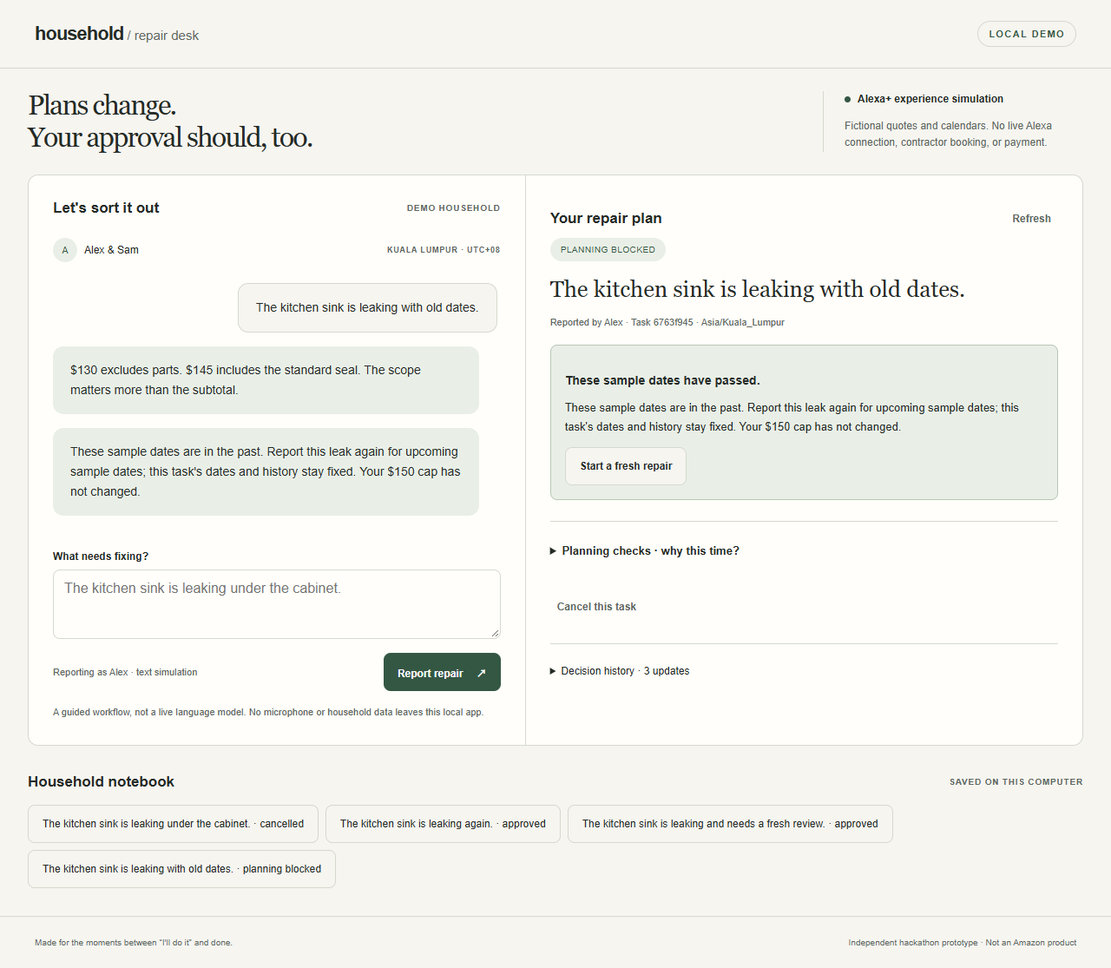
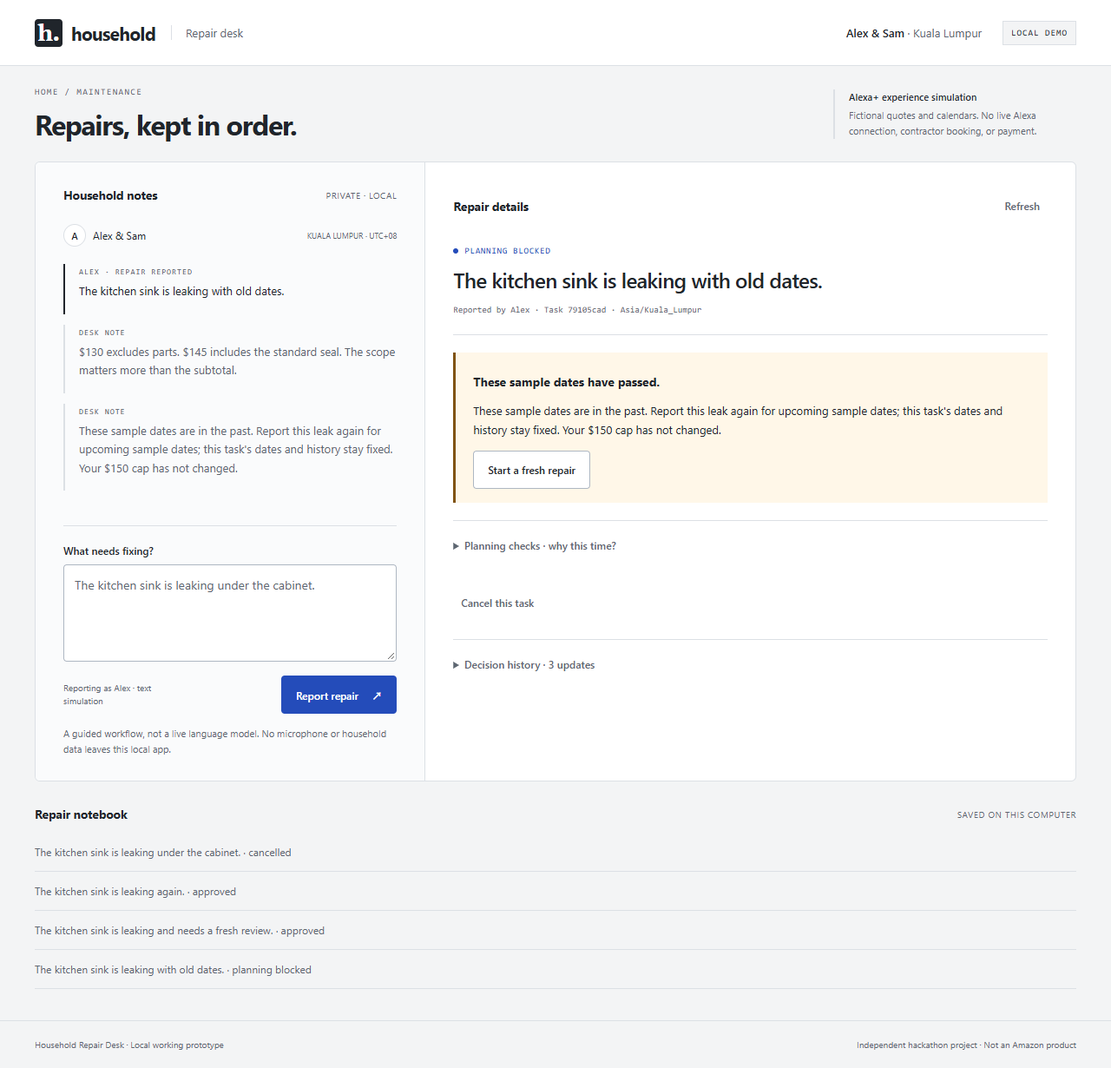
Refine repair workspace and record matching UI demo

diff --git a/public/style.css b/public/style.css
@@ -1,7 +1,6 @@
-:root{color-scheme:light;--bg:#f6f5f0;--surface:#fffefa;--ink:#252b27;--muted:#61685f;--line:#d6d9ce;--accent:#345744;--accent-soft:#e9efe7;--error:#9c312c;--radius:12px;--space:8px;font-family:Arial,Helvetica,sans-serif;color:var(--ink);background:var(--bg)}*{box-sizing:border-box}body{margin:0}header,footer{max-width:1360px;margin:auto;padding:24px 40px;display:flex;justify-content:space-between;align-items:center;gap:24px}header{border-bottom:1px solid var(--line)}a{color:inherit}.wordmark{text-decoration:none;font-size:22px;font-weight:700;letter-spacing:-1px}.wordmark span{font-size:15px;font-weight:400;letter-spacing:0;color:var(--muted)}.mode,.small,.eyebrow{font-size:11px;letter-spacing:1.4px;font-weight:600}.mode{border:1px solid var(--line);border-radius:20px;padding:8px 12px;color:var(--accent)}main{max-width:1280px;padding:0 32px;margin:auto}.intro{display:flex;justify-content:space-between;align-items:end;padding:48px 0 40px;gap:40px}.eyebrow{color:var(--accent);margin:0 0 20px}h1{font-family:Georgia,'Times New Roman',serif;font-size:clamp(36px,4.2vw,58px);font-weight:400;letter-spacing:-1.8px;line-height:1.06;margin:0}.lede{color:var(--muted);font-size:16px;line-height:1.6;margin:20px 0 0;max-width:460px}.scope{max-width:300px;padding:20px 0 0 24px;border-left:1px solid var(--line);font-size:12px;line-height:1.6}.scope p{color:var(--muted);margin-bottom:0}.dot{display:inline-block;width:7px;height:7px;background:var(--accent);border-radius:50%;margin-right:8px}.workspace{display:grid;grid-template-columns:minmax(0,1fr) minmax(0,1.12fr);border:1px solid var(--line);border-radius:var(--radius);background:var(--surface);overflow:hidden}.conversation,.task-panel{padding:28px;min-width:0}.conversation{border-right:1px solid var(--line)}.section-head{display:flex;justify-content:space-between;align-items:center;gap:16px}.section-head h2{font-size:17px;font-weight:600;margin:0}.small{font-size:10px;letter-spacing:.8px;color:var(--muted)}.members{display:flex;align-items:center;gap:8px;margin:24px 0;font-size:12px}.avatar{display:grid;place-items:center;background:var(--accent-soft);color:var(--accent);height:28px;width:28px;border-radius:50%;font-size:11px}.timezone{margin-left:auto;font-size:9px}#messages{display:flex;flex-direction:column;gap:16px;max-height:280px;overflow:auto;padding:0 4px 16px 0}.message{padding:16px 20px;border-radius:var(--radius);font-size:14px;line-height:1.65;white-space:pre-wrap;max-width:96%}.assistant{background:var(--accent-soft)}.user{background:var(--bg);align-self:end;border:1px solid var(--line)}label{display:block;font-size:12px;font-weight:600;margin-bottom:8px}textarea,select{font:inherit;font-size:16px;background:var(--surface);color:var(--ink);border:1px solid var(--line);border-radius:8px;padding:12px;width:100%;resize:vertical}#report-form{margin-top:16px}.form-bottom{display:flex;justify-content:space-between;align-items:center;gap:12px;margin-top:12px}.form-bottom .small{font-weight:400;letter-spacing:0;font-size:11px}button{min-height:44px;cursor:pointer;border:0;border-radius:8px;background:var(--accent);color:var(--surface);font:inherit;font-size:12px;font-weight:600;padding:12px 16px}button:hover{filter:brightness(.92)}button:disabled{opacity:.5;cursor:not-allowed}button span{margin-left:12px}button.secondary{background:var(--bg);color:var(--ink);border:1px solid var(--line)}button.text-button{background:transparent;color:var(--muted);padding:8px;font-size:12px}button:focus-visible,a:focus-visible,input:focus-visible,textarea:focus-visible,select:focus-visible{outline:3px solid var(--accent);outline-offset:3px}.footnote{font-size:11px;line-height:1.6;color:var(--muted);margin:16px 0 0}.empty{text-align:center;min-height:320px;display:flex;flex-direction:column;justify-content:center;align-items:center}.empty-mark{font-size:40px;color:var(--accent);margin-bottom:12px}.empty h3{font-family:Georgia,serif;font-size:24px;font-weight:400;margin:8px 0}.empty p{color:var(--muted);font-size:13px;line-height:1.7}.status{display:inline-block;font-size:10px;color:var(--accent);background:var(--accent-soft);border-radius:20px;padding:8px 12px;letter-spacing:.5px;text-transform:uppercase}.task-heading{font-family:Georgia,serif;font-size:26px;font-weight:400;line-height:1.25;margin:16px 0;overflow-wrap:anywhere}.task-meta{font-size:11px;color:var(--muted);margin-bottom:20px}.quotes{display:grid;grid-template-columns:1fr 1fr;gap:12px;margin:20px 0}.quote{border:1px solid var(--line);border-radius:8px;padding:16px;min-width:0}.quote.recommended{border-color:var(--accent);background:var(--accent-soft)}.quote h3{font-size:13px;margin:8px 0 12px}.price{font-family:Georgia,serif;font-size:32px}.quote p{font-size:11px;line-height:1.6;color:var(--muted);margin:8px 0}.quote a{font-size:11px;display:inline-block;padding:8px 0;text-underline-offset:3px}.quote button{width:100%;margin-top:8px}.recommendation{font-size:13px;line-height:1.7}.slot{display:block;width:100%;text-align:left;background:var(--bg);color:var(--ink);border:1px solid var(--line);margin-top:8px}.slot span{display:block;margin:4px 0 0;font-size:11px;color:var(--muted);font-weight:400}.task-actions{display:flex;gap:8px;margin-top:20px;flex-wrap:wrap}.notice{font-size:13px;line-height:1.6;padding:16px;background:var(--accent-soft);border-radius:8px;margin-top:16px}.timeline{padding-left:16px;margin:20px 0 0;border-left:1px solid var(--line)}.event{font-size:11px;line-height:1.6;margin:12px 0}.event time{display:block;font-size:10px;color:var(--muted)}.history{margin:32px 0}.history .section-head{margin-bottom:16px}#history{display:flex;gap:8px;flex-wrap:wrap}#history button{background:transparent;color:var(--ink);border:1px solid var(--line);font-weight:400;text-align:left;max-width:100%;overflow-wrap:anywhere}footer{font-size:10px;color:var(--muted);border-top:1px solid var(--line)}#error,#review-error{color:var(--error);font-size:13px;line-height:1.5}#error{margin-top:16px;padding:12px;background:var(--bg);border-left:3px solid var(--error)}dialog{max-width:500px;width:calc(100% - 32px);border:1px solid var(--line);border-radius:var(--radius);padding:28px;color:var(--ink);background:var(--surface)}dialog::backdrop{background:#252b2777}#review-details{font-size:14px;line-height:1.8;margin:20px 0}.check{display:flex;gap:12px;font-weight:400;font-size:13px;line-height:1.6;margin:20px 0}.check input{width:20px;height:20px;flex:none;accent-color:var(--accent)}#approval-form button{width:100%}@media(max-width:800px){header,footer{padding:20px 24px}main{padding:0 20px}.intro{padding:32px 0;gap:24px;align-items:start;flex-direction:column}.scope{max-width:none;padding:0 0 0 16px}.workspace{grid-template-columns:1fr}.conversation{border-right:0;border-bottom:1px solid var(--line)}.conversation,.task-panel{padding:24px}.timezone{font-size:8px}.empty{min-height:220px}footer{align-items:start;flex-direction:column;gap:8px}}@media(max-width:400px){.quotes{grid-template-columns:1fr}.form-bottom{align-items:start;flex-direction:column}.wordmark span{display:block;font-size:11px;margin-top:4px}.small{font-size:9px}}
-/* v0.2: keep the active repair in view; surface household changes as decisions. */
-.has-task .intro{padding:24px 0;align-items:center}.has-task h1{font-size:32px;line-height:1.15}.has-task .eyebrow,.has-task .lede{display:none}.has-task .scope{padding-top:0}.budget{margin:20px 0}.budget-input{display:flex;align-items:center;gap:8px;max-width:180px;border:1px solid var(--line);border-radius:8px;padding:8px 12px;background:var(--surface)}.budget-input span{font-size:13px;color:var(--muted)}.budget-input input{width:88px;min-height:32px;border:0;background:transparent;color:var(--ink);font:inherit;font-size:20px}.handoff{border-top:1px solid var(--line);margin-top:24px;padding-top:20px}.handoff button{display:block;margin-top:12px}.withdrawn{background:#f4edda;border-left:3px solid #745922;border-radius:8px;padding:20px;margin-top:16px}.withdrawn .small{color:#634a19}.withdrawn h3{font-family:Georgia,serif;font-weight:400;font-size:26px;margin:12px 0}.withdrawn p,.scope-review p{font-size:13px;line-height:1.65}.scope-review{margin:24px 0 8px;border-top:1px solid var(--line);padding-top:16px}.scope-review summary{font-size:13px;font-weight:600;cursor:pointer;min-height:40px;padding:10px 0}.scope-review summary:focus-visible{outline:3px solid var(--accent);outline-offset:3px}.source-pair{display:flex;flex-wrap:wrap;gap:8px 16px;font-size:12px}.source-pair a{padding:12px 0}.has-task .timeline{max-height:200px;overflow:auto}.has-task .conversation{display:flex;flex-direction:column}.has-task #messages{max-height:330px}.has-task #report-form{margin-top:auto;padding-top:24px}@media(max-width:800px){.has-task .intro{align-items:start}.has-task h1{font-size:30px}.has-task #messages{max-height:200px}}
-#messages:focus-visible,.timeline:focus-visible{outline:3px solid var(--accent);outline-offset:3px}
-.availability-recovery{margin:16px 0;padding:16px;border:1px solid #b9c7b5;border-radius:8px;background:var(--accent-soft)}.availability-recovery p,.planning-checks li{font-size:13px;line-height:1.65}.availability-recovery h4{font-size:14px;margin:16px 0 8px}.availability-recovery button{display:block;margin-top:12px;max-width:100%}.planning-checks ul{padding-left:20px}.planning-checks li{margin:12px 0}
-@media(max-width:800px){.has-task .conversation{border-top:1px solid var(--line);border-bottom:0}.has-task .task-panel .availability-recovery h4:first-child{margin-top:0}}
-.has-task #messages{max-height:none;overflow:visible}.audit{margin-top:20px;border-top:1px solid var(--line);padding-top:12px}.audit summary{font-size:12px;cursor:pointer;min-height:40px;padding:12px 0}.audit summary:focus-visible{outline:3px solid var(--accent);outline-offset:3px}@media(max-width:800px){.has-task #messages{max-height:none}}
+:root{color-scheme:light;--bg:#f3f4f5;--surface:#fff;--ink:#20252b;--muted:#5d6671;--line:#dce0e5;--accent:#244cba;--accent-soft:#eef3ff;--error:#a42d30;--warning:#805311;font-family:'Segoe UI',Arial,sans-serif;color:var(--ink);background:var(--bg);font-synthesis:none}*{box-sizing:border-box}body{margin:0;-webkit-font-smoothing:antialiased}a{color:inherit;text-underline-offset:3px}header{height:76px;padding:0 40px;background:var(--surface);display:flex;align-items:center;gap:24px;border-bottom:1px solid var(--line)}.wordmark{display:flex;align-items:center;gap:10px;text-decoration:none;font-size:21px;font-weight:650;letter-spacing:-.7px}.brand-mark{display:grid;place-items:center;width:32px;height:32px;background:var(--ink);color:#fff;font-family:Georgia,serif;font-size:26px;line-height:1;border-radius:4px}.brand-divider{font-size:13px;letter-spacing:0;font-weight:400;color:var(--muted);border-left:1px solid var(--line);padding-left:16px;margin-left:8px}.header-household{margin-left:auto;font-size:13px;font-weight:600}.header-household span{font-weight:400;color:var(--muted)}.mode{font:10px Consolas,monospace;letter-spacing:1px;background:var(--bg);padding:7px 9px;border:1px solid var(--line)}main{max-width:1280px;margin:auto;padding:0 40px}.intro{display:flex;justify-content:space-between;align-items:center;gap:40px;padding:32px 0 28px}.eyebrow{font:10px Consolas,monospace;letter-spacing:1.4px;color:var(--muted);margin:0 0 12px}h1{font-size:32px;line-height:1.2;letter-spacing:-1.2px;font-weight:650;margin:0}.lede{font-size:13px;color:var(--muted);line-height:1.6;margin:10px 0 0}.scope{max-width:280px;border-left:2px solid var(--line);padding-left:16px;font-size:11px;line-height:1.6}.scope strong{font-weight:600}.scope p{color:var(--muted);margin:4px 0 0}.workspace{display:grid;grid-template-columns:minmax(0,.75fr) minmax(0,1.25fr);background:var(--surface);border:1px solid var(--line);border-radius:6px;overflow:hidden;align-items:stretch}.conversation,.task-panel{padding:24px;min-width:0}.conversation{background:#fafbfc;border-right:1px solid var(--line)}.section-head{display:flex;justify-content:space-between;gap:12px;align-items:center}.section-head h2{font-size:14px;letter-spacing:-.2px;font-weight:650;margin:0}.small{font-size:10px;letter-spacing:.6px;color:var(--muted)}.members{display:flex;align-items:center;gap:8px;margin:24px 0 20px;font-size:12px}.avatar{display:grid;place-items:center;width:26px;height:26px;border:1px solid var(--line);border-radius:50%;background:#fff;font-size:11px;font-weight:600}.timezone{margin-left:auto;font-size:9px;letter-spacing:0}#messages{display:flex;flex-direction:column;gap:0;padding:0;margin-bottom:28px}.message{font-size:13px;line-height:1.65;white-space:pre-wrap;padding:4px 0 16px 16px;margin:0 0 12px;border-left:2px solid var(--line);color:var(--muted);overflow-wrap:anywhere}.message:before{content:'DESK NOTE';display:block;font:9px Consolas,monospace;letter-spacing:1px;color:var(--muted);margin-bottom:6px}.message.user{color:var(--ink);border-left-color:var(--ink)}.message.user:before{content:'ALEX · REPAIR REPORTED'}label{display:block;font-size:12px;font-weight:600;margin-bottom:8px}textarea,select{font:inherit;font-size:14px;width:100%;padding:12px;border:1px solid #aeb7c2;border-radius:4px;background:var(--surface);color:var(--ink);resize:vertical;line-height:1.6}textarea::placeholder{color:var(--muted)}textarea{min-height:112px}#report-form{border-top:1px solid var(--line);padding-top:20px}.form-bottom{display:flex;justify-content:space-between;align-items:center;gap:12px;margin-top:12px}.form-bottom .small{font-size:10px;font-weight:400;letter-spacing:0;max-width:125px;line-height:1.5}button{min-height:44px;padding:11px 16px;background:var(--accent);color:#fff;border:1px solid transparent;border-radius:4px;font:600 12px 'Segoe UI',Arial,sans-serif;cursor:pointer;transition:background-color 100ms}button:hover{background:#193b98}button:active{transform:translateY(1px)}button:disabled{opacity:.5;cursor:not-allowed}button span{margin-left:12px}button.secondary{background:var(--surface);border-color:#aeb7c2;color:var(--ink)}button.secondary:hover{background:#edf0f4}button.text-button{background:transparent;color:var(--muted);padding:8px;font-size:12px}button.text-button:hover{background:var(--bg);color:var(--ink)}:is(button,a,input,textarea,select,summary,#messages,.timeline):focus-visible{outline:3px solid var(--accent);outline-offset:3px}.footnote{font-size:11px;line-height:1.6;color:var(--muted);margin:14px 0 0}.empty{min-height:392px;padding:44px 16px 20px;display:flex;flex-direction:column;align-items:flex-start}.empty-index{font:10px Consolas,monospace;letter-spacing:1px;color:var(--muted)}.empty h3{font-size:27px;letter-spacing:-.8px;font-weight:600;margin:16px 0 8px}.empty p{font-size:13px;line-height:1.7;color:var(--muted);margin:0}.empty-steps{list-style:none;margin:28px 0;padding:0;width:100%;max-width:380px}.empty-steps li{font-size:12px;padding:12px 0;border-bottom:1px solid var(--line)}.empty-steps li span{font:10px Consolas,monospace;color:var(--muted);margin-right:20px}.empty-caption{font-size:11px;color:var(--muted);line-height:1.6}.status{display:inline-flex;align-items:center;font:10px Consolas,monospace;letter-spacing:.7px;text-transform:uppercase;color:var(--accent);margin-top:24px}.status:before{content:'';width:6px;height:6px;border-radius:50%;background:currentColor;margin-right:7px}.task-heading{font-size:24px;font-weight:600;letter-spacing:-.6px;line-height:1.35;margin:10px 0;overflow-wrap:anywhere}.task-meta{font:10px Consolas,monospace;color:var(--muted);line-height:1.6;padding-bottom:20px;border-bottom:1px solid var(--line);margin-bottom:20px}.recommendation{font-size:13px;line-height:1.7;max-width:65ch}.budget{margin:24px 0 16px}.budget-input{display:flex;align-items:center;gap:10px;border-bottom:1px solid #929daa;max-width:180px;padding:4px 0}.budget-input span{font-size:12px;color:var(--muted)}.budget-input input{font:600 25px 'Segoe UI',sans-serif;color:var(--ink);border:0;background:transparent;width:100px;min-height:40px;font-variant-numeric:tabular-nums}.task-actions{display:flex;flex-wrap:wrap;gap:8px;margin-top:20px}.quotes{display:grid;grid-template-columns:1fr 1fr;margin:24px 0 16px;border-top:1px solid var(--line);border-bottom:1px solid var(--line)}.quote{padding:20px 16px 20px 0;min-width:0;position:relative}.quote+.quote{border-left:1px solid var(--line);padding-left:20px}.quote.recommended:before{content:'';height:3px;background:var(--accent);position:absolute;top:-1px;left:20px;right:0}.quote .small{font:9px Consolas,monospace;letter-spacing:.4px}.quote.recommended .small{color:var(--accent)}.quote h3{font-size:14px;font-weight:600;margin:12px 0}.price{font-size:36px;font-weight:600;letter-spacing:-1.5px;font-variant-numeric:tabular-nums}.quote p{font-size:12px;color:var(--muted);line-height:1.7;margin:6px 0}.quote a{display:inline-block;font-size:11px;padding:10px 0}.quote button{display:block;width:100%;margin-top:8px}.slot{display:block;width:100%;background:var(--surface);color:var(--ink);text-align:left;border:1px solid var(--line);margin-top:8px;padding:14px}.slot:hover{background:var(--accent-soft)}.slot span{display:block;margin:6px 0 0;font-size:11px;color:var(--muted);font-weight:400}.notice{font-size:14px;line-height:1.9;padding:20px 24px;background:var(--accent-soft);border-left:3px solid var(--accent);margin-top:16px}.notice strong{display:inline-block;font-size:19px;font-weight:600;margin-bottom:4px}.handoff{border-top:1px solid var(--line);margin-top:24px;padding-top:20px}.handoff button{display:block;margin-top:12px}.withdrawn{padding:20px;background:#fff7e8;border-left:3px solid var(--warning);margin-top:16px}.withdrawn .small{color:var(--warning)}.withdrawn h3{font-size:23px;font-weight:600;letter-spacing:-.5px;margin:12px 0}.withdrawn p,.scope-review p{font-size:13px;line-height:1.7}.scope-review,.audit{border-top:1px solid var(--line);margin:20px 0 0;padding-top:8px}summary{cursor:pointer;font-size:12px;font-weight:500;padding:12px 0;min-height:44px;color:var(--muted)}details[open] summary{color:var(--ink)}.source-pair{display:flex;flex-wrap:wrap;gap:8px 16px;font-size:12px}.source-pair a{padding:12px 0}.timeline{padding-left:16px;border-left:1px solid var(--line);margin:12px 0;max-height:220px;overflow:auto}.event{font-size:12px;line-height:1.6;margin:16px 0}.event time{display:block;font:10px Consolas,monospace;color:var(--muted);margin-bottom:4px}.availability-recovery{padding:16px 20px;border-left:3px solid var(--warning);background:#fff7e8;margin:16px 0}.availability-recovery h4{font-size:14px;margin:8px 0}.availability-recovery p,.planning-checks li{font-size:13px;line-height:1.7}.availability-recovery button{display:block;margin-top:12px;max-width:100%}.planning-checks ul{padding-left:20px}.planning-checks li{margin:12px 0}.history{margin:28px 0 36px}.history .section-head{margin-bottom:12px}#history{display:flex;flex-direction:column}#history button{background:transparent;border-radius:0;border:0;border-bottom:1px solid var(--line);padding:14px 0;color:var(--muted);text-align:left;font-size:12px;font-weight:400;overflow-wrap:anywhere;max-width:100%}#history button:hover{color:var(--accent);background:#e9edf3}footer{display:flex;justify-content:space-between;gap:20px;max-width:1280px;margin:auto;padding:20px 40px;border-top:1px solid var(--line);font-size:10px;color:var(--muted)}#error,#review-error{color:var(--error);font-size:13px;line-height:1.6}#error{padding:12px 16px;border-left:3px solid var(--error);background:#fff0f0;margin-top:16px}dialog{max-width:500px;width:calc(100% - 32px);border:0;border-radius:8px;padding:28px;color:var(--ink);background:var(--surface);box-shadow:0 20px 80px #18212f40}dialog::backdrop{background:#18212f70}#review-details{font-size:14px;line-height:1.9;margin:24px 0;padding:20px;background:var(--accent-soft);border-left:3px solid var(--accent)}.check{display:flex;gap:12px;font-size:13px;font-weight:400;line-height:1.7;margin:20px 0}.check input{flex:none;width:20px;height:20px;accent-color:var(--accent)}#approval-form button{width:100%}
+@media(min-width:1100px){.conversation,.task-panel{padding:28px 32px}.has-task .conversation{align-self:start}.has-task .intro{padding:24px 0}.has-task .lede{display:none}}
+@media(max-width:800px){header{padding:0 20px;height:64px;gap:12px}.header-household{display:none}.mode{margin-left:auto}.wordmark{font-size:19px}.brand-divider{font-size:12px;margin:0;padding-left:10px}main{padding:0 20px}.intro{padding:24px 0;gap:20px;align-items:start;flex-direction:column}h1{font-size:28px}.scope{max-width:100%;font-size:10px}.workspace{grid-template-columns:1fr}.conversation{border-right:0;border-bottom:1px solid var(--line)}.has-task .conversation{border-bottom:0;border-top:1px solid var(--line)}.conversation,.task-panel{padding:20px}.empty{min-height:320px;padding:28px 0 12px}.empty h3{font-size:24px}.task-heading{font-size:23px}.has-task .lede{display:none}.notice{padding:16px}.history{margin-top:24px}footer{padding:20px;flex-direction:column;gap:8px}.form-bottom .small{max-width:none}.timezone{font-size:9px}}
+@media(max-width:400px){.brand-divider{display:none}main{padding:0 16px}.quotes{grid-template-columns:1fr}.quote{padding:20px 0}.quote+.quote{padding:20px 0;border-left:0;border-top:1px solid var(--line)}.quote.recommended:before{left:0}.form-bottom{align-items:start;flex-direction:column}.form-bottom button{width:100%}.task-heading{font-size:22px}.members{flex-wrap:wrap}.timezone{margin-left:0;width:100%;padding-left:34px}.empty-caption{max-width:28ch}}
+@media(prefers-reduced-motion:reduce){*{transition:none!important}button:active{transform:none}}
+.appointment{background:var(--surface);border:1px solid var(--line);border-top:3px solid var(--accent);padding:20px 24px}.appointment>.small{display:block;color:var(--accent);font:10px Consolas,monospace;letter-spacing:.6px;margin-bottom:10px}.appointment>strong{font-size:20px;line-height:1.4;letter-spacing:-.3px}.appointment dl{margin:16px 0}.appointment dl>div{display:grid;grid-template-columns:92px 1fr;gap:12px;margin:10px 0;font-size:13px;line-height:1.7}.appointment dt{color:var(--muted);font-size:12px}.appointment dd{margin:0;font-variant-numeric:tabular-nums}.appointment dd span{font-size:12px;color:var(--muted)}.approval-state{font-size:12px;line-height:1.7;border-top:1px solid var(--line);padding-top:14px;margin:16px 0 0;color:var(--muted)}@media(max-width:400px){.appointment{padding:16px}.appointment dl>div{grid-template-columns:1fr;gap:2px}.appointment dd span{display:block}}

diff --git a/public/index.html b/public/index.html
@@ -1,19 +1,19 @@
 <!doctype html>
 <html lang="en"><head><meta charset="UTF-8"><meta name="viewport" content="width=device-width, initial-scale=1"><title>Household Repair Desk</title><link rel="icon" href="data:,"><link rel="stylesheet" href="/style.css"><script type="module" src="/app.js"></script></head>
 <body>
-<header><a class="wordmark" href="/">household<span> / repair desk</span></a><span class="mode">LOCAL DEMO</span></header>
+<header><a class="wordmark" href="/"><span class="brand-mark" aria-hidden="true">h.</span>household<span class="brand-divider">Repair desk</span></a><div class="header-household">Alex & Sam <span>· Kuala Lumpur</span></div><span class="mode">LOCAL DEMO</span></header>
 <main>
-<section class="intro"><div><p class="eyebrow">FOR THE THINGS THAT NEVER STAY SORTED</p><h1>Plans change.<br>Your approval should, too.</h1><p class="lede">A household repair plan that notices when someone can no longer be home.</p></div><div class="scope"><span class="dot"></span><strong>Alexa+ experience simulation</strong><p>Fictional quotes and calendars. No live Alexa connection, contractor booking, or payment.</p></div></section>
+<section class="intro"><div><p class="eyebrow">HOME / MAINTENANCE</p><h1>Repairs, kept in order.</h1><p class="lede">Compare the full cost. Find someone to be home. Confirm together.</p></div><div class="scope"><strong>Alexa+ experience simulation</strong><p>Fictional quotes and calendars. No live Alexa connection, contractor booking, or payment.</p></div></section>
 <div class="workspace">
-<section class="conversation" aria-labelledby="conversation-title"><div class="section-head"><h2 id="conversation-title">Let's sort it out</h2><span class="small">DEMO HOUSEHOLD</span></div>
+<section class="conversation" aria-labelledby="conversation-title"><div class="section-head"><h2 id="conversation-title">Household notes</h2><span class="small">PRIVATE · LOCAL</span></div>
 <div class="members"><span class="avatar">A</span><span>Alex & Sam</span><span class="small timezone">KUALA LUMPUR · UTC+08</span></div>
-<div id="messages" role="log" tabindex="0" aria-label="Repair conversation" aria-live="polite"><div class="message assistant">The kitchen sink is leaking? Tell me what's happening. I'll check the sample quotes and who can be home, then leave the decision with you.</div></div>
+<div id="messages" role="log" tabindex="0" aria-label="Repair conversation" aria-live="polite"><div class="message assistant">Start with the kitchen sink leak. The sample repair includes two quotes and Alex and Sam's availability.</div></div>
 <form id="report-form"><label for="description">What needs fixing?</label><textarea id="description" name="description" rows="3" minlength="8" maxlength="1000" required placeholder="The kitchen sink is leaking under the cabinet."></textarea><div class="form-bottom"><span class="small">Reporting as Alex · text simulation</span><button type="submit">Report repair <span aria-hidden="true">↗</span></button></div></form>
 <p class="footnote">A guided workflow, not a live language model. No microphone or household data leaves this local app.</p></section>
-<section class="task-panel" aria-labelledby="task-title"><div class="section-head"><h2 id="task-title">Your repair plan</h2><button id="refresh" class="text-button" type="button">Refresh</button></div><div id="error" role="alert" hidden></div><div id="task"><div class="empty"><div class="empty-mark" aria-hidden="true">⌂</div><h3>Start with the small thing.</h3><p>Report the leak to open a task.<br>We'll keep the details here.</p></div></div></section>
+<section class="task-panel" aria-labelledby="task-title"><div class="section-head"><h2 id="task-title">Repair details</h2><button id="refresh" class="text-button" type="button">Refresh</button></div><div id="error" role="alert" hidden></div><div id="task"><div class="empty"><span class="empty-index">01 / NEW REPAIR</span><h3>Get the leak off your list.</h3><p>Describe the problem in household notes.<br>Your quotes, visit time and approval will live here.</p><ol class="empty-steps"><li><span>01</span> Compare quote scopes</li><li><span>02</span> Check who's home</li><li><span>03</span> Review before approving</li></ol><span class="empty-caption">If a schedule changes, the old approval is withdrawn.</span></div></div></section>
 </div>
-<section class="history"><div class="section-head"><h2>Household notebook</h2><span class="small">SAVED ON THIS COMPUTER</span></div><div id="history"></div></section>
+<section class="history"><div class="section-head"><h2>Repair notebook</h2><span class="small">SAVED ON THIS COMPUTER</span></div><div id="history"></div></section>
 </main>
-<footer><span>Made for the moments between “I'll do it” and done.</span><span>Independent hackathon prototype · Not an Amazon product</span></footer>
+<footer><span>Household Repair Desk · Local working prototype</span><span>Independent hackathon project · Not an Amazon product</span></footer>
 <dialog id="review"><form method="dialog"><div class="section-head"><h2>Review the repair plan</h2><button class="text-button" aria-label="Close review">Close</button></div></form><div id="review-details"></div><form id="approval-form"><label for="member">Confirming as (demo identity)</label><select id="member"><option>Alex</option><option>Sam</option></select><label class="check"><input id="confirm" type="checkbox" required> I approve this simulated household plan. I understand no contractor will be contacted and no payment will be made.</label><p id="review-error" role="alert"></p><button type="submit">Approve household plan</button></form></dialog>
 </body></html>

diff --git a/public/app.js b/public/app.js
@@ -37,7 +37,7 @@ function render() {
   }
   if (t.proposal) {
     const q = data.quotes.find(q => q.id === t.proposal.quoteId), s = (t.calendar ?? data.slots).find(s => s.id === t.proposal.slotId);
-    content += `<div class="notice"><strong>${escape(q.provider)}</strong><br>${escape(s.label)}<br>USD $${q.total} ${q.partsIncluded ? 'including standard seal' : '+ unknown parts'}<br>${t.status === 'approved' ? `Approved by ${escape(t.proposal.approvedBy)}. Saved locally; no contractor booking or payment.` : t.status === 'cancelled' ? 'Cancelled locally. No provider was contacted.' : 'Waiting for household review. No provider contacted.'}</div>`;
+    content += `<section class="notice appointment" aria-label="Proposed repair visit"><span class="small">${t.status === 'approved' ? 'HOUSEHOLD CONFIRMED' : t.status === 'cancelled' ? 'CANCELLED PLAN' : 'PROPOSED VISIT'}</span><strong>${escape(q.provider)}</strong><dl><div><dt>Visit</dt><dd>${escape(s.label)}</dd></div><div><dt>Known total</dt><dd>USD $${q.total} <span>${q.partsIncluded ? 'including standard seal' : '+ unknown parts'}</span></dd></div></dl><p class="approval-state">${t.status === 'approved' ? `Approved by ${escape(t.proposal.approvedBy)}. Saved locally; no contractor booking or payment.` : t.status === 'cancelled' ? 'Cancelled locally. No provider was contacted.' : 'Waiting for household review. No provider contacted.'}</p></section>`;
     if (t.status === 'awaiting_approval') content += new Date(s.start)<=new Date() ? '<div class="notice" role="status">That appointment has passed. Start a fresh repair for upcoming dates. The old task remains in history.</div><div class="task-actions"><button data-action="fresh-report">Start a fresh repair</button></div>' : new Date(t.proposal.expiresAt)<=new Date() ? '<div class="notice" role="status">This review expired. Renew it to keep the same scope and time with a fresh approval request.</div><div class="task-actions"><button data-action="renew">Renew review</button></div>' : '<div class="task-actions"><button data-action="review">Review & confirm</button></div>';
     if (['awaiting_approval','approved'].includes(t.status) && s.host) {
       const day = new Date(s.start).toLocaleDateString('en-US', { timeZone: 'Asia/Kuala_Lumpur', weekday: 'long' });

diff --git a/scripts/render-demo-v2.py b/scripts/render-demo-v2.py
@@ -1,15 +1,17 @@
 """Render the real 16:9 browser recording with stock neural narration."""
 import hashlib,json,pathlib,re,subprocess
 ROOT=pathlib.Path(__file__).resolve().parents[1]
-import os
+import os,sys
 os.chdir(ROOT)
-OUT=pathlib.Path('video/v2')
+output=sys.argv[1] if len(sys.argv)>1 else 'video/v2'
+assert re.fullmatch(r'video/v\d+',output),'Use a project-local video/vN output folder.'
+OUT=pathlib.Path(output)
 def run(args): subprocess.run(args,cwd=ROOT,check=True)
 def stamp(t):
     n=round(t*1000)
     return f'{n//3600000:02}:{n//60000%60:02}:{n//1000%60:02},{n%1000:03}'
-scenes=json.loads((OUT/'timeline.json').read_text())
-recording=json.loads((OUT/'recording.json').read_text())
+scenes=json.loads((OUT/'timeline.json').read_text(encoding='utf-8'))
+recording=json.loads((OUT/'recording.json').read_text(encoding='utf-8'))
 captions=[];offset=0
 for scene,mark in zip(scenes,recording['marks']):
     words=scene['narration'].split();chunks=[];chunk=[]
@@ -42,7 +44,7 @@ pixels=subprocess.check_output(['ffmpeg','-hide_banner','-loglevel','error','-i'
 slate=[i//12 for i in range(0,len(pixels),12) if pixels[i]>220 and pixels[i+1]<35 and pixels[i+2]>220]
 assert slate,'Missing encoded synchronization slate'
 lead=(max(slate)+1)/fps
-vf="scale=1920:1080,subtitles=video/v2/demo-en.srt:force_style='FontName=Arial,FontSize=10,PrimaryColour=&H00FFFFFF,OutlineColour=&H00000000,BorderStyle=1,Outline=1.3,Shadow=0,MarginV=14'"
+vf=f"scale=1920:1080,subtitles={OUT.as_posix()}/demo-en.srt:force_style='FontName=Arial,FontSize=10,PrimaryColour=&H00FFFFFF,OutlineColour=&H00000000,BorderStyle=1,Outline=1.3,Shadow=0,MarginV=14'"
 target=OUT/'household-repair-desk-demo.mp4'
 run(['ffmpeg','-y','-hide_banner','-loglevel','warning','-ss',str(lead),'-i',str(raw),'-i',str(OUT/'narration.wav'),'-t',str(offset),'-vf',vf,'-map','0:v:0','-map','1:a:0','-c:v','libx264','-preset','medium','-crf','19','-pix_fmt','yuv420p','-r','30','-c:a','aac','-b:a','160k','-movflags','+faststart',str(target)])
 probe=json.loads(subprocess.check_output(['ffprobe','-v','error','-show_format','-show_streams','-of','json',str(target)],text=True))

diff --git a/docs/UI-REFINEMENT-20261021.md b/docs/UI-REFINEMENT-20261021.md
@@ -1,0 +1,21 @@
+# UI refinement — 21 October 2026
+
+Direction: a practical household maintenance workspace. This replaces the previous promotional serif headline, sage/beige palette, chat bubbles and repeated rounded cards.
+
+- A compact app masthead replaces the landing-page hero; the repair workspace starts higher on the page.
+- The desktop layout gives more width to repair details. Household notes use a quiet activity rail rather than chat bubbles.
+- Quote comparison uses a divided invoice-style layout; costs use aligned numeric typography. Blue marks the complete-scope quote and primary actions.
+- The proposed visit has labelled Visit and Known total fields and a separate household approval record.
+- Mobile retains repair-first DOM order, wraps quote columns, and provides full-width report actions at small widths.
+- Local simulation, fictional identities and the no-booking boundary remain explicit.
+- Keyboard focus and reduced-motion handling are retained. No generated imagery, downloaded fonts or new dependencies.
+
+Validation after the final appointment layout: npm test (22 passed); npm run test:ui (PASS). Browser checks cover report, comparison, unavailable slots, explicit approval, cancellation, hard budget caps, household changes, new consent, expired reviews, unavailable hosts, restoration, saved task selection, expired dates and keyboard access. Axe scans report no WCAG A/AA violations in the tested approved, withdrawn, expired-review and availability-blocked states. 375 / 768 / 1280 px checks show no horizontal overflow. No unexpected page or console errors.
+
+Evidence: ../evidence/ui-refresh/before-initial.png and before-quotes.png preserve the old design. Updated desktop-initial.png, desktop-quotes.png, desktop-approved.png and viewport-375.png show the new design. Browser report: ../evidence/browser-report.json.
+
+Video v3 records the revised actual UI with the existing conversational English narration and individual subtitle lines. It uses fictional household data and real local HTTP MCP calls; it does not show a live Alexa connection. See ../video/v3/video-verification.json for the completed media checks. The older v2 video and public release remain intact.
+
+No external publication or final submission is performed in this refinement pass. Winning is not verified or guaranteed by a UI review. Remaining submission work includes the qualifying public video URL and final entry review.
+
+Completed media validation: v3 is 91.0 seconds, 1920 x 1080, 30 fps, H.264 with AAC narration. Decoded quote, approval-dialog and replanning frames were visually inspected. The audio stream measures mean -15.8 dB and peak -1.3 dB (FFmpeg volumedetect). File SHA-256: 4b224fabf1a1081e9f493b5db007ac06d31e6c9ae662cb93dd0106d892c6f1ff. Narration reuses the existing Kokoro af_heart synthetic voice; no new voice or voice cloning is claimed. The v3 recording uses upcoming October 26–27 sample appointments; fixed-clock regression screenshots intentionally use October 19–20.

diff --git a/README.md b/README.md
@@ -8,6 +8,8 @@ Current source: v0.3.0. Planning now distinguishes price, household availability
 
 Independent Alexa+ hackathon prototype. The web experience is a guided text simulation, not a live Alexa client or language model. The MCP server is real and uses the official SDK over Streamable HTTP. Quotes, providers, household members and calendars are fictional. Approval creates a local household record; no contractor is contacted and no booking or payment occurs.
 
+The local UI refinement replaces the promotional hero and chat bubbles with a compact repair workspace, household activity notes, invoice-style quote comparison and labelled visit details. See [the design and validation notes](docs/UI-REFINEMENT-20261021.md), [desktop evidence](evidence/desktop-approved.png) and [mobile evidence](evidence/viewport-375.png). The updated real-interface recording lives in `video/v3/`; the published v0.3.0 release and its older video are unchanged.
+
 ## Run locally
 
 Requires Node.js 22 or newer (developed with Node 24.20.0).
